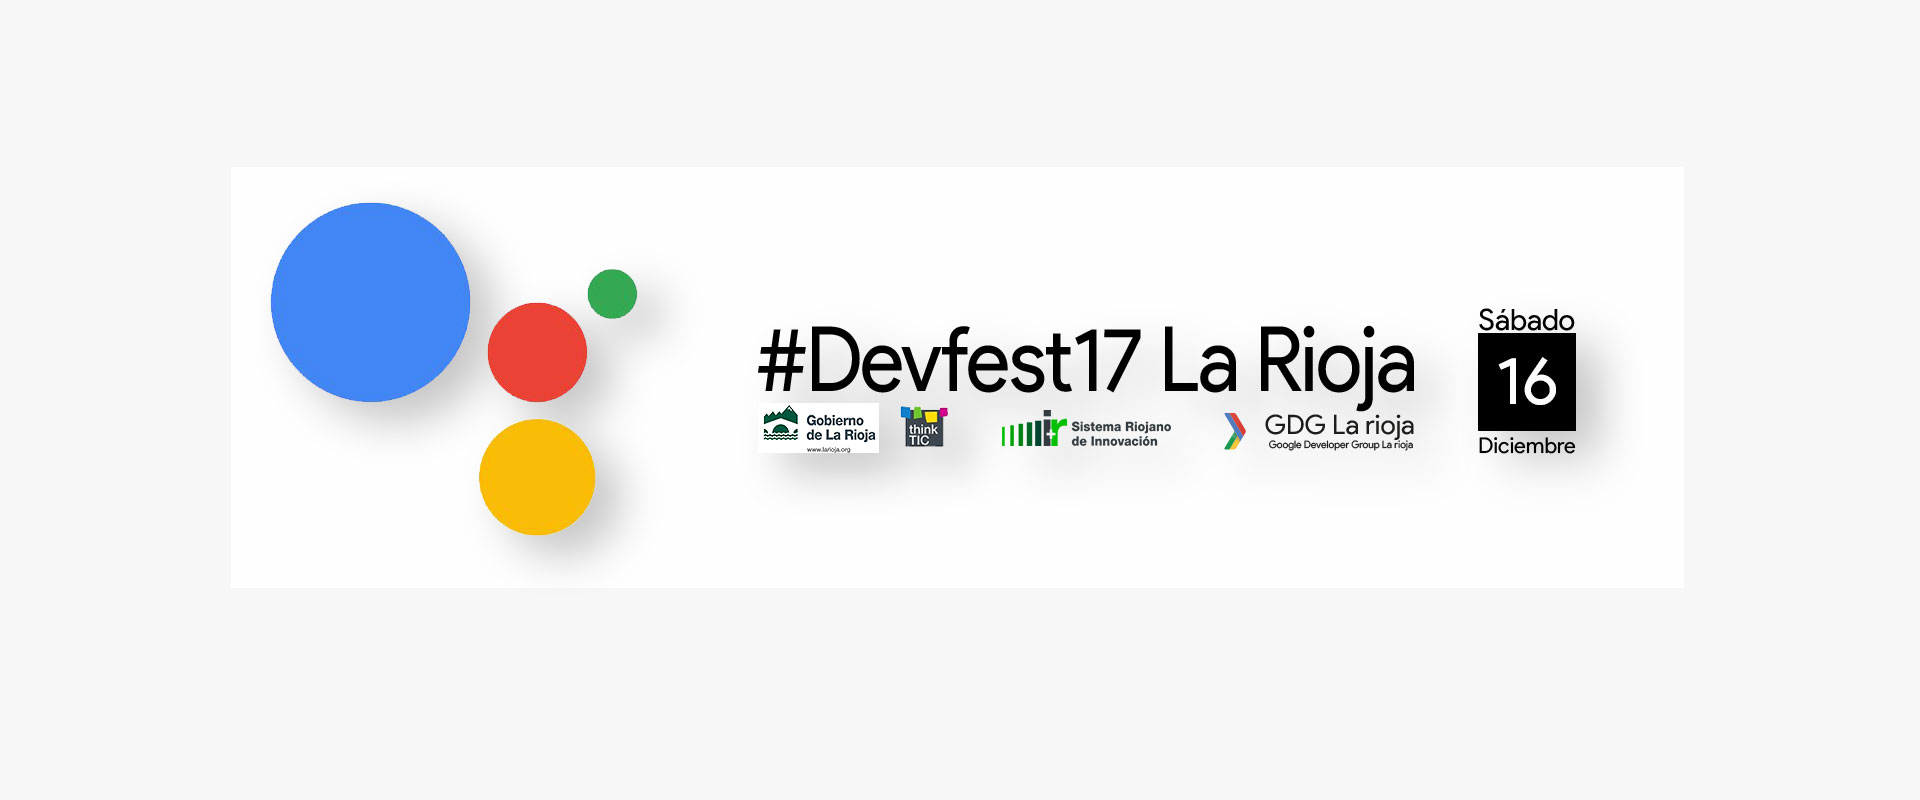
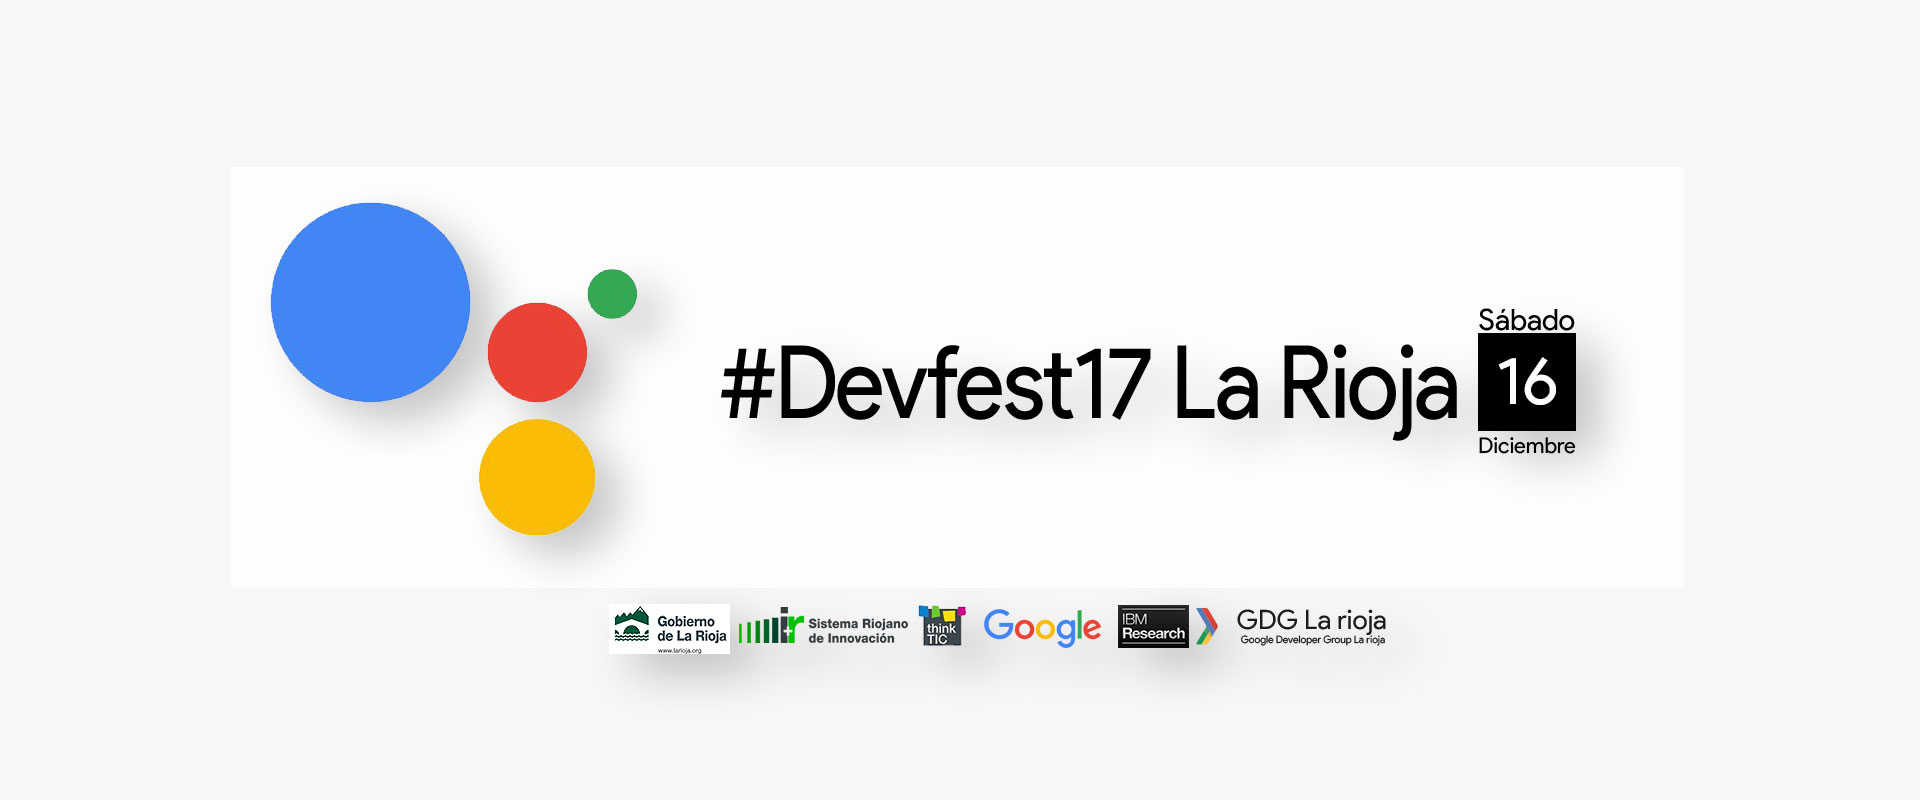
Fix update

Changed region(s): [[0.375, 0.4062, 0.7812, 0.5938], [0.3125, 0.75, 0.7188, 0.8438]]

diff --git a/index.html b/index.html
@@ -143,25 +143,15 @@
 									<img src="upload/logo-gdg.png" alt="GDG La Rioja">
 								</a>
 							</div>
-                            <!-- end GDG logo -->
+                         
 
-														<!-- ini ur logo  -->
-
-							 <!-- ini urlogo -->
-							<div class="item" style="padding: 0 auto;">
-								<a href="http://www.unirioja.es/" target="_blank" style="text-align: center; margin: 0 auto; display: block">
-									<img src="upload/logo-ur.png" alt="Univeridad de La Rioja. ">
-								</a>
-							</div>
-                            <!-- end tpUva logo -->
-
-                            <!-- ini GOOGLE logo
+                            <!-- ini GOOGLE logo -->
 							<div class="item" style="padding:0 auto;">
 								<a href="https://developers.google.com/?hl=es" target="_blank" style="text-align: center; margin: 0 auto; display: block">
 									<img src="upload/logo-google.png" alt="Google">
 								</a>
 							</div>
-                             end GOOGLE logo -->
+                             <!-- end GOOGLE logo -->
 
                             <!-- ini SISTEMA RIOJANO INNOVACIÓN logo -->
 
@@ -171,8 +161,17 @@
 								</a>
 							</div>
 
-                            <!-- end GOBIERNO DE LA RIOJA logo -->
+                            
 
+							<!-- IBM logo -->
+
+							<div class="item" style="padding:0 auto;">
+								<a href="https://www.research.ibm.com/ibm-q/" target="_blank" style="text-align: center; margin: 0 auto; display: block">
+									<img src="upload/logo-ibm.png" alt="IBM research Q">
+								</a>
+							</div>
+
+                            <!-- IBM logo -->
 
 
 
